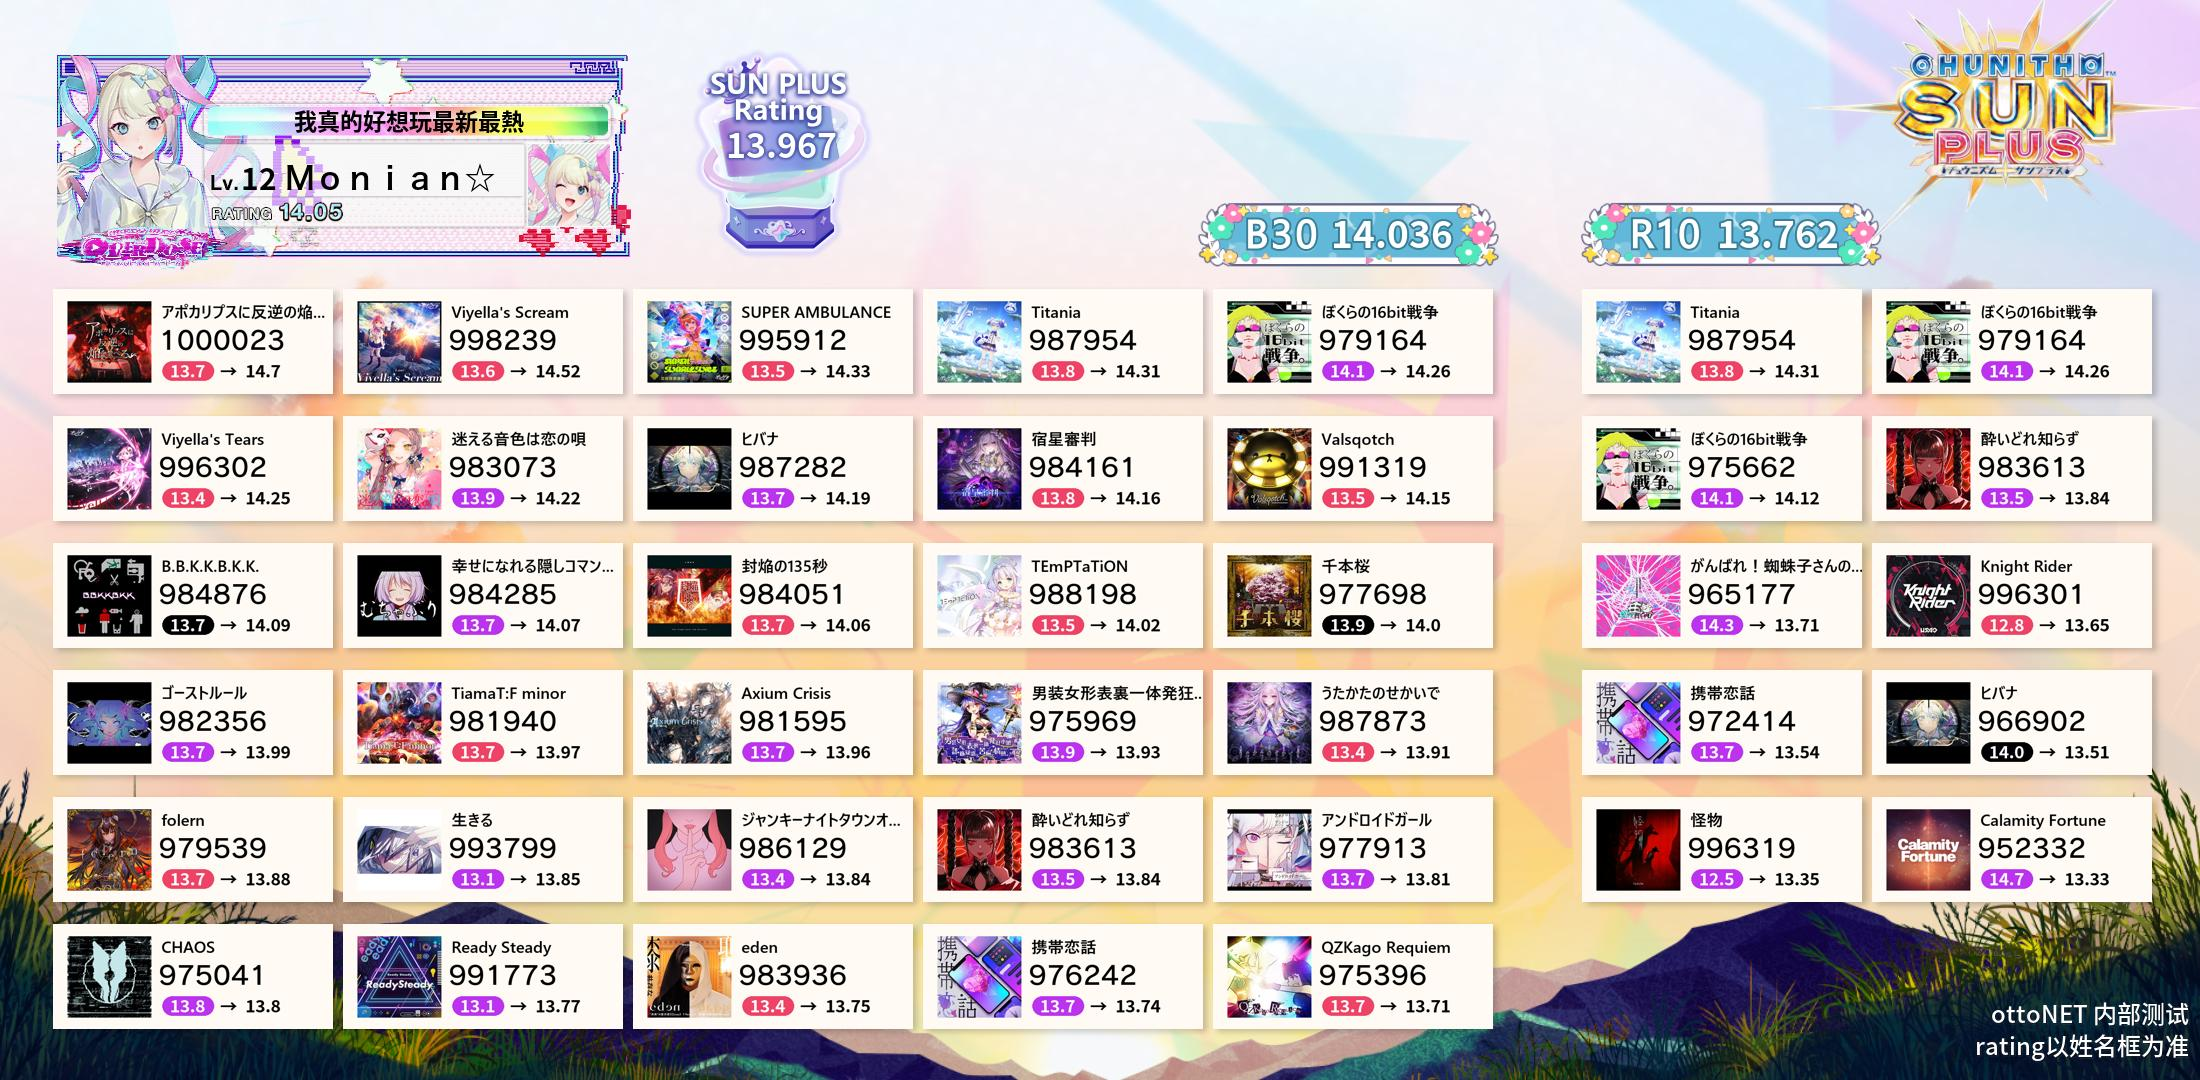
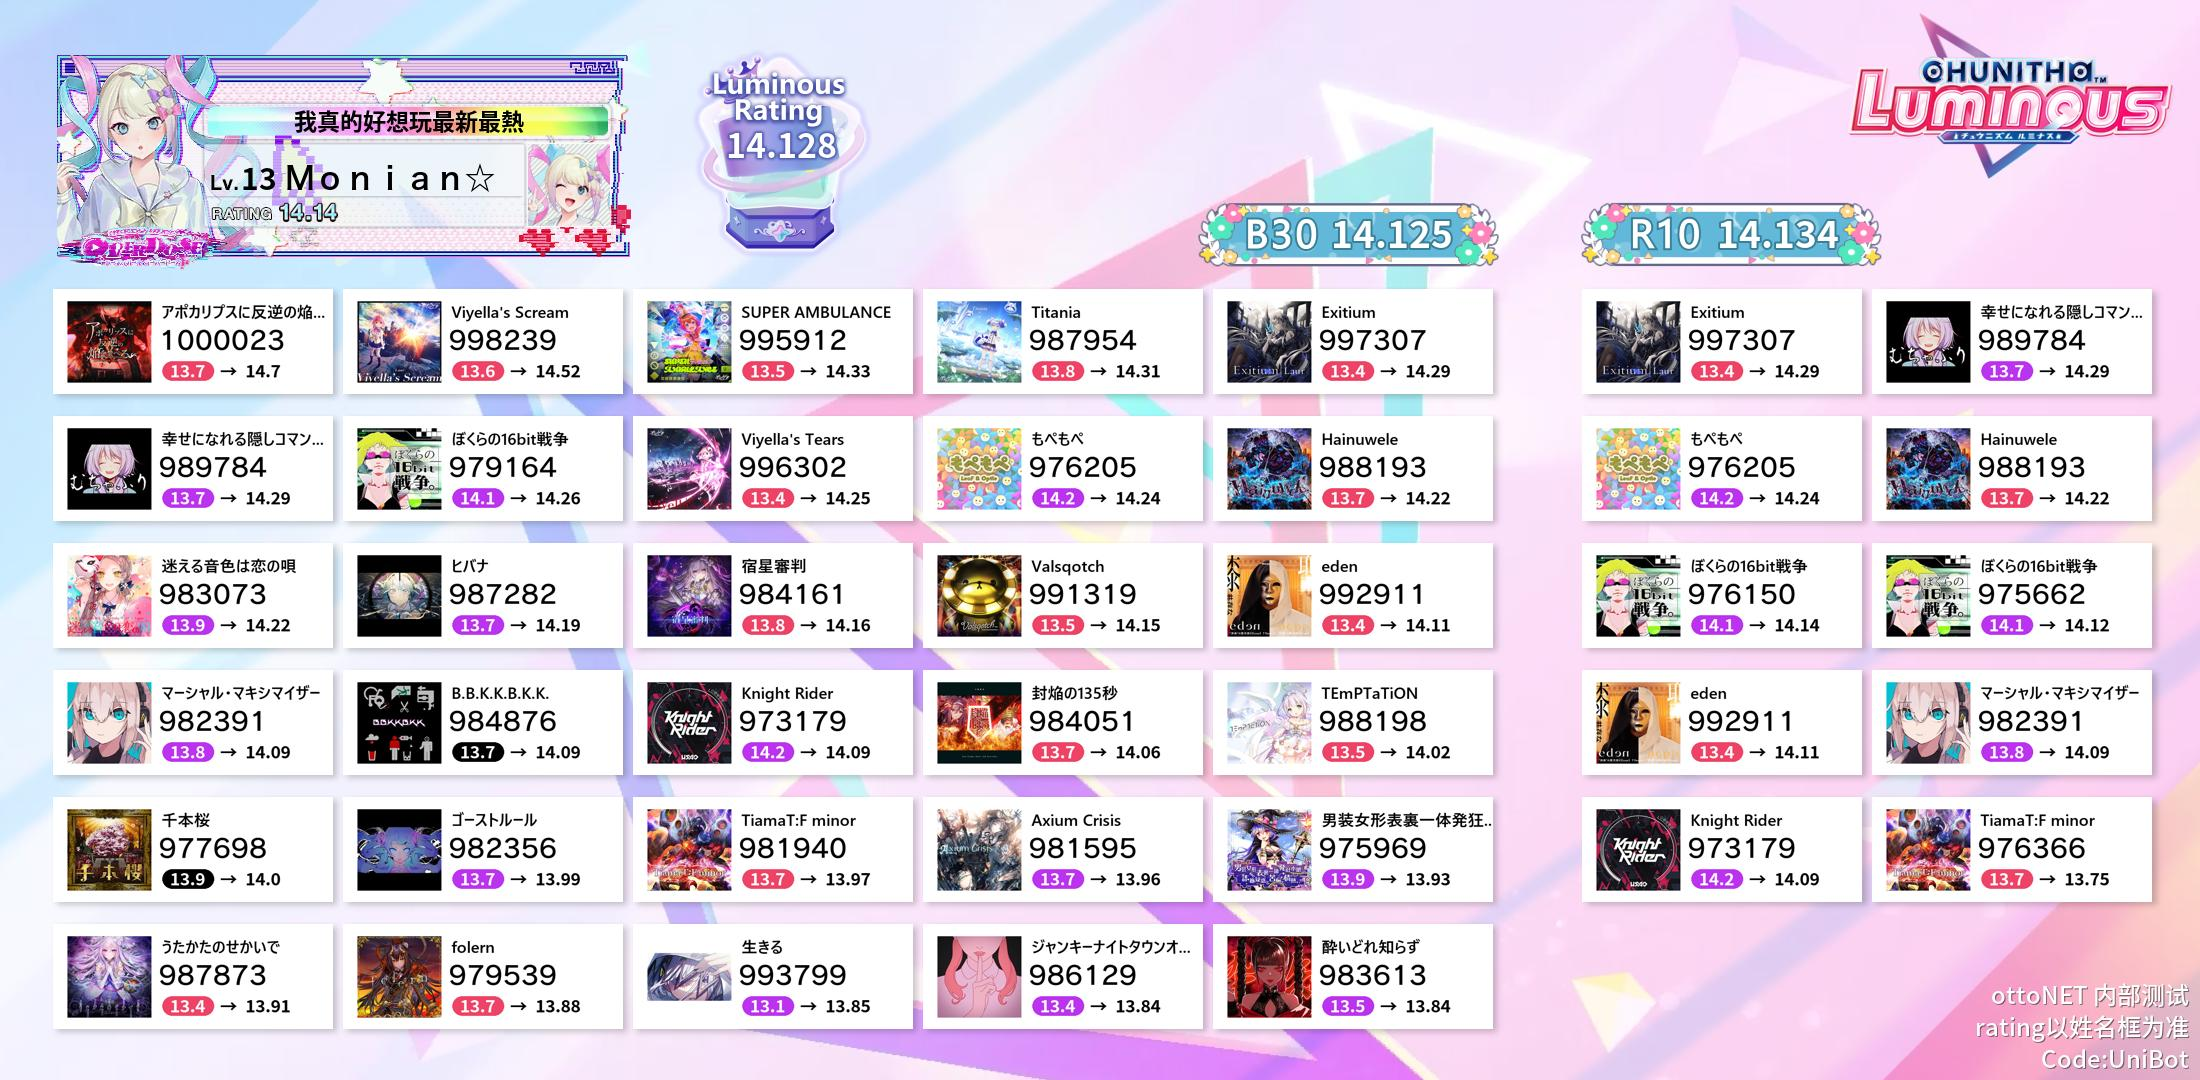
readme

diff --git a/b30.py b/b30.py
@@ -483,7 +483,7 @@ def truncate_two_decimal_places(number):
     return float(str_number)
 
 
-def b30single(single_data, version='2.15'):
+def b30single(single_data, version='2.20'):
     color = {
         'master': (187, 51, 238),
         'expert': (238, 67, 102),
@@ -641,7 +641,7 @@ def get_user_info_pic(id):
     return img
 
 
-def chunib30(userid, server='aqua', version='2.15'):
+def chunib30(userid, server='aqua', version='2.20'):
     if version == '2.15':
         pic = Image.open('static/pics/chub30sunp.png')
     elif version == '2.20':
@@ -707,7 +707,7 @@ def chunib30(userid, server='aqua', version='2.15'):
     user_nameplate = get_user_info_pic(userid)
     pic.paste(user_nameplate, (57, 55), user_nameplate.split()[3])
 
-    text = 'ottoNET 内部测试\nrating以姓名框为准\n'
+    text = 'ottoNET 内部测试\nrating以姓名框为准\nCode:UniBot\n'
 
     font_style = ImageFont.truetype("fonts/SourceHanSansCN-Medium.otf", 24)
 

diff --git a/dds/searchdds.py b/dds/searchdds.py
@@ -1,0 +1,22 @@
+import os
+import xml.etree.ElementTree as ET
+import shutil
+
+# search dds
+
+def search_and_copy(src_folder, dst_folder, extension):
+    if not os.path.exists(dst_folder):
+        os.makedirs(dst_folder)
+    for root, dirs, files in os.walk(src_folder):
+        for file in files:
+            if file.endswith(extension):
+                src_file_path = os.path.join(root, file)
+                parent_dir = os.path.basename(root)
+                file_name, file_extension = os.path.splitext(file)
+                # new_file_name = f"{file_name}_{parent_dir}{file_extension}"
+                new_file_name = f"{file}"
+                dst_file_path = os.path.join(dst_folder, new_file_name)
+                shutil.copy2(src_file_path, dst_file_path)
+                print(f"Copied {src_file_path} to {dst_file_path}")
+
+search_and_copy('D:\Chunithm\SDHD - CHUNITHM LUMINOUS', 'D:\Chunithm\LUMINOUSdds', '.dds')
